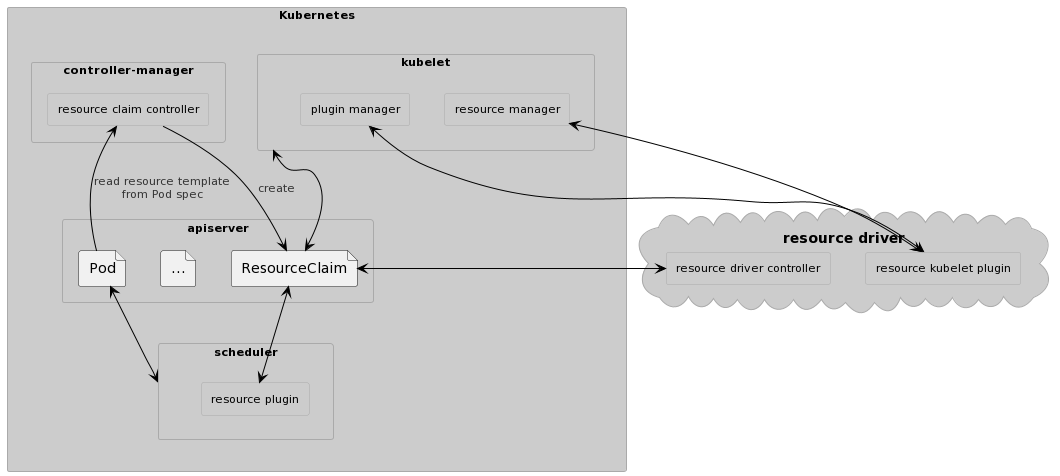
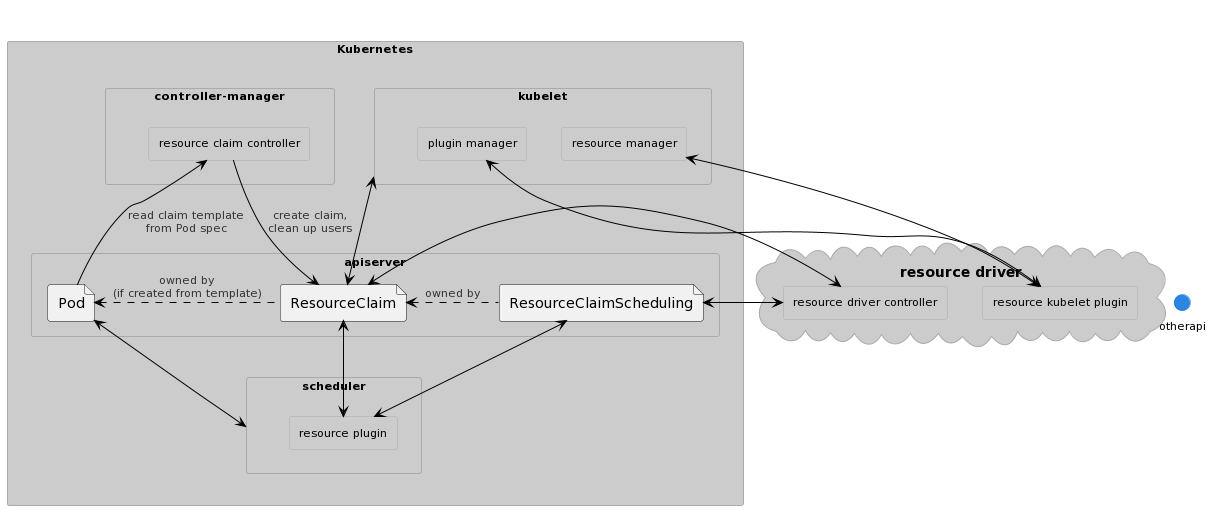
dynamic resource allocation: separate ResourceClaimScheduling

diff --git a/keps/sig-node/3063-dynamic-resource-allocation/README.md b/keps/sig-node/3063-dynamic-resource-allocation/README.md
@@ -833,14 +833,16 @@ else changes in the system, like for example deleting objects.
   * **scheduler** filters nodes
   * if *delayed allocation and resource not allocated yet*:
     * if *at least one node fits pod*:
-      * **scheduler** picks one node, sets `SuitableNodes=<all nodes that fit the pod>`, `SelectedNode=<the chosen node>` and `SelectedUser=<the pod being scheduled>`
+      * **scheduler** picks one node, sets `SelectedNode=<the chosen node>` and `SelectedUser=<the pod being scheduled>`
+      * **scheduler** creates or updates a `ResourceClaimScheduling` object with `PotentialNodes=<all nodes that fit the pod>`
       * if *resource is available for `SelectedNode`*:
         * **resource driver** adds finalizer to claim to prevent deletion -> allocation in progress
         * **resource driver** finishes allocation, sets `Allocation` and the
-          intended user in `ReservedFor` -> claim ready for use and reserved
+          intended user in `ReservedFor`, clears `SelectedNode` and `SelectedUser` -> claim ready for use and reserved
           for the pod
+        * **resource driver** deletes `ResourceClaimScheduling` object if there is one
       * else *scheduler needs to know that it must avoid this and possibly other nodes*:
-        * **resource driver** sets `UnsuitableNodes` -> next attempt by scheduler has more information and is more likely to succeed
+        * **resource driver** sets `ResourceClaimScheduling.UnsuitableNodes` -> next attempt by scheduler has more information and is more likely to succeed
     * else *pod cannot be scheduled*:
       * **scheduler** may trigger deallocation of some claim with delayed allocation by setting `ResourceClaimStatus.Deallocate` to true
       (see [pseudo-code above](#coordinating-resource-allocation-through-the-scheduler)) or wait
@@ -919,6 +921,13 @@ type ResourceClass struct {
 	//
 	// The object must be cluster-scoped.
 	Parameters TypedLocalObjectReference
+
+	// Only nodes matching the selector will be considered by the scheduler
+	// when trying to find a Node that fits a Pod when that Pod uses
+	// a ResourceClaim that has not been allocated yet.
+	//
+	// Setting this field is optional. If nil, all nodes are candidates.
+	SuitableNodes *core.NodeSelector
 }
 
 // ResourceClaim is created by users to describe which resources they need.
@@ -1045,21 +1054,18 @@ type ResourceClaimStatus struct {
 	UsedOnNodes []string
 }
 
-// SchedulingStatus is used while handling delayed allocation.
+// SchedulingStatus contains information that is relevant while
+// a Pod with delayed allocation is being scheduled.
 type SchedulingStatus struct {
-	// Scheduler contains information provided by the scheduler.
-	Scheduler SchedulerSchedulingStatus
-
-	// DriverStatus contains information provided by the resource driver.
-	Driver DriverSchedulingStatus
-}
-
-// SchedulerSchedulingStatus contains information provided by the scheduler
-// while handling delayed allocation.
-type SchedulerSchedulingStatus struct {
 	// When allocation is delayed, the scheduler must set
 	// the node for which it wants the resource to be allocated
 	// before the driver proceeds with allocation.
+	//
+	// This field may only be set by a scheduler, but not get
+	// overwritten. It will get reset by the driver when allocation
+	// succeeds or fails. This ensures that different schedulers
+	// that handle different Pods do not accidentally trigger
+	// allocation for different nodes.
 	//
 	// For immediate allocation, the scheduler will not set
 	// this field. The resource driver controller may
@@ -1081,42 +1087,6 @@ type SchedulerSchedulingStatus struct {
 	// will be ready for use by the Pod the next time that the scheduler
 	// tries to schedule it.
 	SelectedUser *metav1.OwnerReference
-
-	// When allocation is delayed, and the scheduler needs to
-	// decide on which node a Pod should run, it will
-	// ask the driver on which nodes the resource might be
-	// made available. To trigger that check, the scheduler
-	// provides the names of nodes which might be suitable
-	// for the Pod. Will be updated periodically until
-	// the claim is allocated.
-	PotentialNodes []string
-}
-
-// DriverSchedulingStatus contains information provided by the resource driver
-// while handling delayed allocation.
-type DriverSchedulingStatus struct {
-	// Only nodes matching the selector will be considered by the scheduler
-	// when trying to find a Node that fits a Pod. A resource driver can
-	// set this immediately when a ResourceClaim gets created and, for
-	// example, provide a static selector that uses labels.
-	//
-	// Setting this field is optional. If nil, all nodes are candidates.
-	SuitableNodes *core.NodeSelector
-
-	// A change of the PotentialNodes field triggers a check in the driver
-	// on which of those nodes the resource might be made available. It
-	// then excludes nodes by listing those where that is not the case in
-	// UnsuitableNodes.
-	//
-	// Nodes listed here will be ignored by the scheduler when selecting a
-	// node for a Pod. All other nodes are potential candidates, either
-	// because no information is available yet or because allocation might
-	// succeed.
-	//
-	// This can change, so the driver must refresh this information
-	// periodically and/or after changing resource allocation for some
-	// other ResourceClaim until a node gets selected by the scheduler.
-	UnsuitableNodes []string
 }
 
 // AllocationResult contains attributed of an allocated resource.
@@ -1148,6 +1118,54 @@ type AllocationResult struct {
 	// SharedResource determines whether the resource supports more
 	// than one user at a time.
 	SharedResource bool
+}
+
+// ResourceClaimScheduling objects get created by a scheduler when it needs
+// information from a resource driver while scheduling a Pod that uses
+// an unallocated ResourceClaim with delayed allocation.
+//
+// Alternatively, a scheduler extender might be configured for the
+// resource driver. In that case no such object is needed.
+type ResourceClaimScheduling struct {
+	metav1.TypeMeta
+
+	// The name must be the same as the corresponding ResourceClaim.
+	// That ResourceClaim must be listed as owner in OwnerReferences
+	// to ensure that the ResourceClaimScheduling gets deleted
+	// when no longer needed. Normally the driver will delete it,
+	// but it might get removed before it has a chance to do that.
+	//
+	// More info: https://git.k8s.io/community/contributors/devel/sig-architecture/api-conventions.md#metadata
+	metav1.ObjectMeta
+
+	// When allocation is delayed, and the scheduler needs to
+	// decide on which node a Pod should run, it will
+	// ask the driver on which nodes the resource might be
+	// made available. To trigger that check, the scheduler
+	// provides the names of nodes which might be suitable
+	// for the Pod. Will be updated periodically until
+	// the claim is allocated.
+	//
+	// The ResourceClass.SuiteableNodes node selector can be
+	// used to filter out nodes based on labels. This prevents
+	// adding nodes here that the driver then would need to
+	// reject through UnsuitableNodes.
+	PotentialNodes []string
+
+	// A change of the PotentialNodes field triggers a check in the driver
+	// on which of those nodes the resource might be made available. It
+	// then excludes nodes by listing those where that is not the case in
+	// UnsuitableNodes.
+	//
+	// Nodes listed here will be ignored by the scheduler when selecting a
+	// node for a Pod. All other nodes are potential candidates, either
+	// because no information is available yet or because allocation might
+	// succeed.
+	//
+	// This can change, so the driver must refresh this information
+	// periodically and/or after changing resource allocation for some
+	// other ResourceClaim until a node gets selected by the scheduler.
+	UnsuitableNodes []string
 }
 
 type PodSpec {
@@ -1269,8 +1287,8 @@ type Extender struct {
        // and Bind (if the extender is the binder) phases iff the pod requests at least
        // one ResourceClaim for which the resource driver name in the corresponding
        // ResourceClass is listed here. In addition, the builtin dynamic resources
-       // plugin will skip setting SuitableNodes for claims managed by the extender
-       // if the extender has a FilterVerb.
+       // plugin will skip creation and updating of the ResourceClaimScheduling object
+       // for claims managed by the extender if the extender has a FilterVerb.
        ManagedResourceDrivers []string
 ```
 
@@ -1293,14 +1311,15 @@ This checks whether the given node has access to those ResourceClaims which
 were already allocated.
 
 For unallocated ResourceClaims with delayed allocation, only those nodes are
-filtered out that are explicitly listed in UnsuitableNodes or that don't match
-the optional AvailableOnNodes node filter.
+filtered out that are explicitly listed in a ResourceClaimScheduling.UnsuitableNodes
+field (if such an object already exists) or that don't match
+the optional ResourceClass.SuitableNodes node selector.
 
 There are several
 reasons why such a deny list is more suitable than an allow list:
 - Nodes for which no information is available must pass the filter phase to be
-  included in the list that will be passed to the post-filter and to get copied
-  into the PotentialNodes field there.
+  included in the list that will be passed to pre-score and to get copied
+  into the ResourceClaimScheduling.PotentialNodes field there.
 - A node can already be chosen while there is no information yet and, if
   allocation for that node actually works, the Pod can get scheduled sooner.
 - Some resource drivers might not have any unsuitable nodes, for example
@@ -1341,10 +1360,14 @@ might attempt to improve this.
 #### Pre-score
 
 This is passed a list of nodes that have passed filtering by the resource
-plugin and the other plugins. The PotentialNodes field of unallocated
+plugin and the other plugins. The ResourceClaimScheduling.PotentialNodes field of unallocated
 ResourceClaims with delayed allocation gets updated now if the field doesn't
-match the current list already and there is no scheduler extender for the
-claim.
+match the current list already. If no ResourceClaimScheduling object exists yet,
+it gets created.
+
+When there is a scheduler extender configured for the claim, creating and
+updating ResourceClaimScheduling objects gets skipped because the scheduler
+extender handles filtering.
 
 #### Reserve
 
